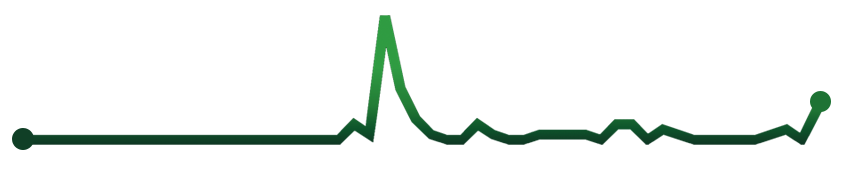
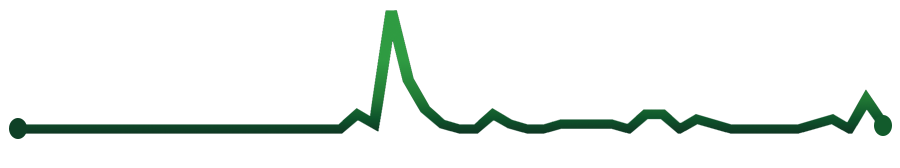
Fix minor bugs  (#81)
* Bug Fixes in aggregate and base_actor

* anonymise the Path

* Add path change instructions

* update the links in readme

* Update sparkline-banner.png

* update link

Changed region(s): [[0.0, 0.0595, 1.0, 0.8631]]

diff --git a/fl_strategies/fed_avg.py b/fl_strategies/fed_avg.py
@@ -18,21 +18,20 @@ class FedAvg:
     def test_run(self, arg1, arg2):
         return arg1 + arg2
 
-    def aggregate(self, neighbour_ids):
-        model_list = [
-            (self.in_neighbours[id].sample_num, self.in_neighbours[id].model)
-            for id in neighbour_ids
-        ]
-        (num0, averaged_params) = model_list[0]
+    def aggregate(self):
+        model_list = [None] * len(self.in_neighbours)
+        training_num = 0
+ 
+        for idx, neighbour in enumerate(self.in_neighbours.values()):
+            model_list[idx] = neighbour.model
+            training_num += neighbour.sample_num
+ 
+        (sample_num0, averaged_params) = model_list[0]
         for k in averaged_params.keys():
-            for i in range(0, len(model_list)):
-                local_sample_number, local_model_params = model_list[i]
-                w = local_sample_number / training_num
-                if i == 0:
-                    averaged_params[k] = local_model_params[k] * w
-                else:
-                    averaged_params[k] += local_model_params[k] * w
-
+            averaged_params[k] *= sample_num0/training_num
+            for sample_num, params in model_list:
+                averaged_params[k] += params[k] * (sample_num/training_num)
+                
         return averaged_params
 
     def sample_clients(self, round_idx, client_num_per_round):

diff --git a/fedrec/python_executors/base_actor.py b/fedrec/python_executors/base_actor.py
@@ -60,14 +60,15 @@ class BaseActor(Reproducible, ABC):
         self.worker_index = worker_index
         self.is_mobile = is_mobile
         self.persistent_storage = persistent_storage
-
+        self.config = config
         self.logger = logger
+    
 
         modelCls = registry.lookup('model', config["model"])
         self.model_preproc: PreProcessor = registry.instantiate(
             modelCls.Preproc,
             config["model"]['preproc'])
-
+        self._model = None
         self._optimizer = None
         self.worker = None
         self.worker_funcs = {}
@@ -97,7 +98,7 @@ class BaseActor(Reproducible, ABC):
             # 1. Construct model
             self.model_preproc.load_data_description()
             self._model = registry.construct(
-                'model', self.config,
+                'model', self.config['model'],
                 preprocessor=self.model_preproc,
                 unused_keys=('name', 'preproc')
             )

diff --git a/fedrec/python_executors/trainer.py b/fedrec/python_executors/trainer.py
@@ -62,7 +62,7 @@ class Trainer(BaseActor, ABC):
         super().__init__(worker_index, config, logger,
                          persistent_storage, is_mobile, round_idx)
         self.local_sample_number = None
-        self.local_training_steps = 0
+        self.local_training_steps = 10
         self._data_loaders = {}
         # TODO update trainer logic to avoid double model initialization
         self.worker = registry.construct(
@@ -94,7 +94,9 @@ class Trainer(BaseActor, ABC):
             round_idx=self.round_idx,
             state_dict=state,
             model_preproc=self.model_preproc,
-            storage=self.persistent_storage
+            storage=self.persistent_storage,
+            local_sample_number = self.local_sample_number,
+            local_training_steps = self.local_training_steps
         )
 
     def load_worker(

diff --git a/fedrec/preprocessor.py b/fedrec/preprocessor.py
@@ -45,9 +45,9 @@ class DLRMPreprocessor(PreProcessor):
         self.ln_emb = None
 
     def preprocess_data(self):
+        self.dataset_processor.process_data()
         if not self.m_den:
             self.load_data_description()
-        self.dataset_processor.process_data()
 
     def load_data_description(self):
         self.dataset_processor.load_data_description()

diff --git a/preprocess_data.py b/preprocess_data.py
@@ -1,7 +1,8 @@
 
 from argparse import ArgumentParser
 from fedrec.utilities import random_state, registry
-
+import fl_strategies
+import experiments
 import yaml
 
 

diff --git a/README.md b/README.md
@@ -91,6 +91,11 @@ To start the multiprocessing executor run the following command:
 ```bash
 python executor.py --config configs/dlrm_fl.yml
 ```
+Change the path in [Dlrm_fl.yml](configs/dlrm_fl.yml) to your data path.
+```
+preproc :
+    datafile : "<Your path to data>/criteo_dataset/train.txt"
+```
 Run data preprocessing with [preprocess_data](preprocess_data.py) and supply the config file. You should be able to generate per-day split from the entire dataset as well a processed data file
 ```bash
 python preprocess_data.py --config configs/dlrm_fl.yml --logdir $HOME/logs/kaggle_criteo/exp_1
